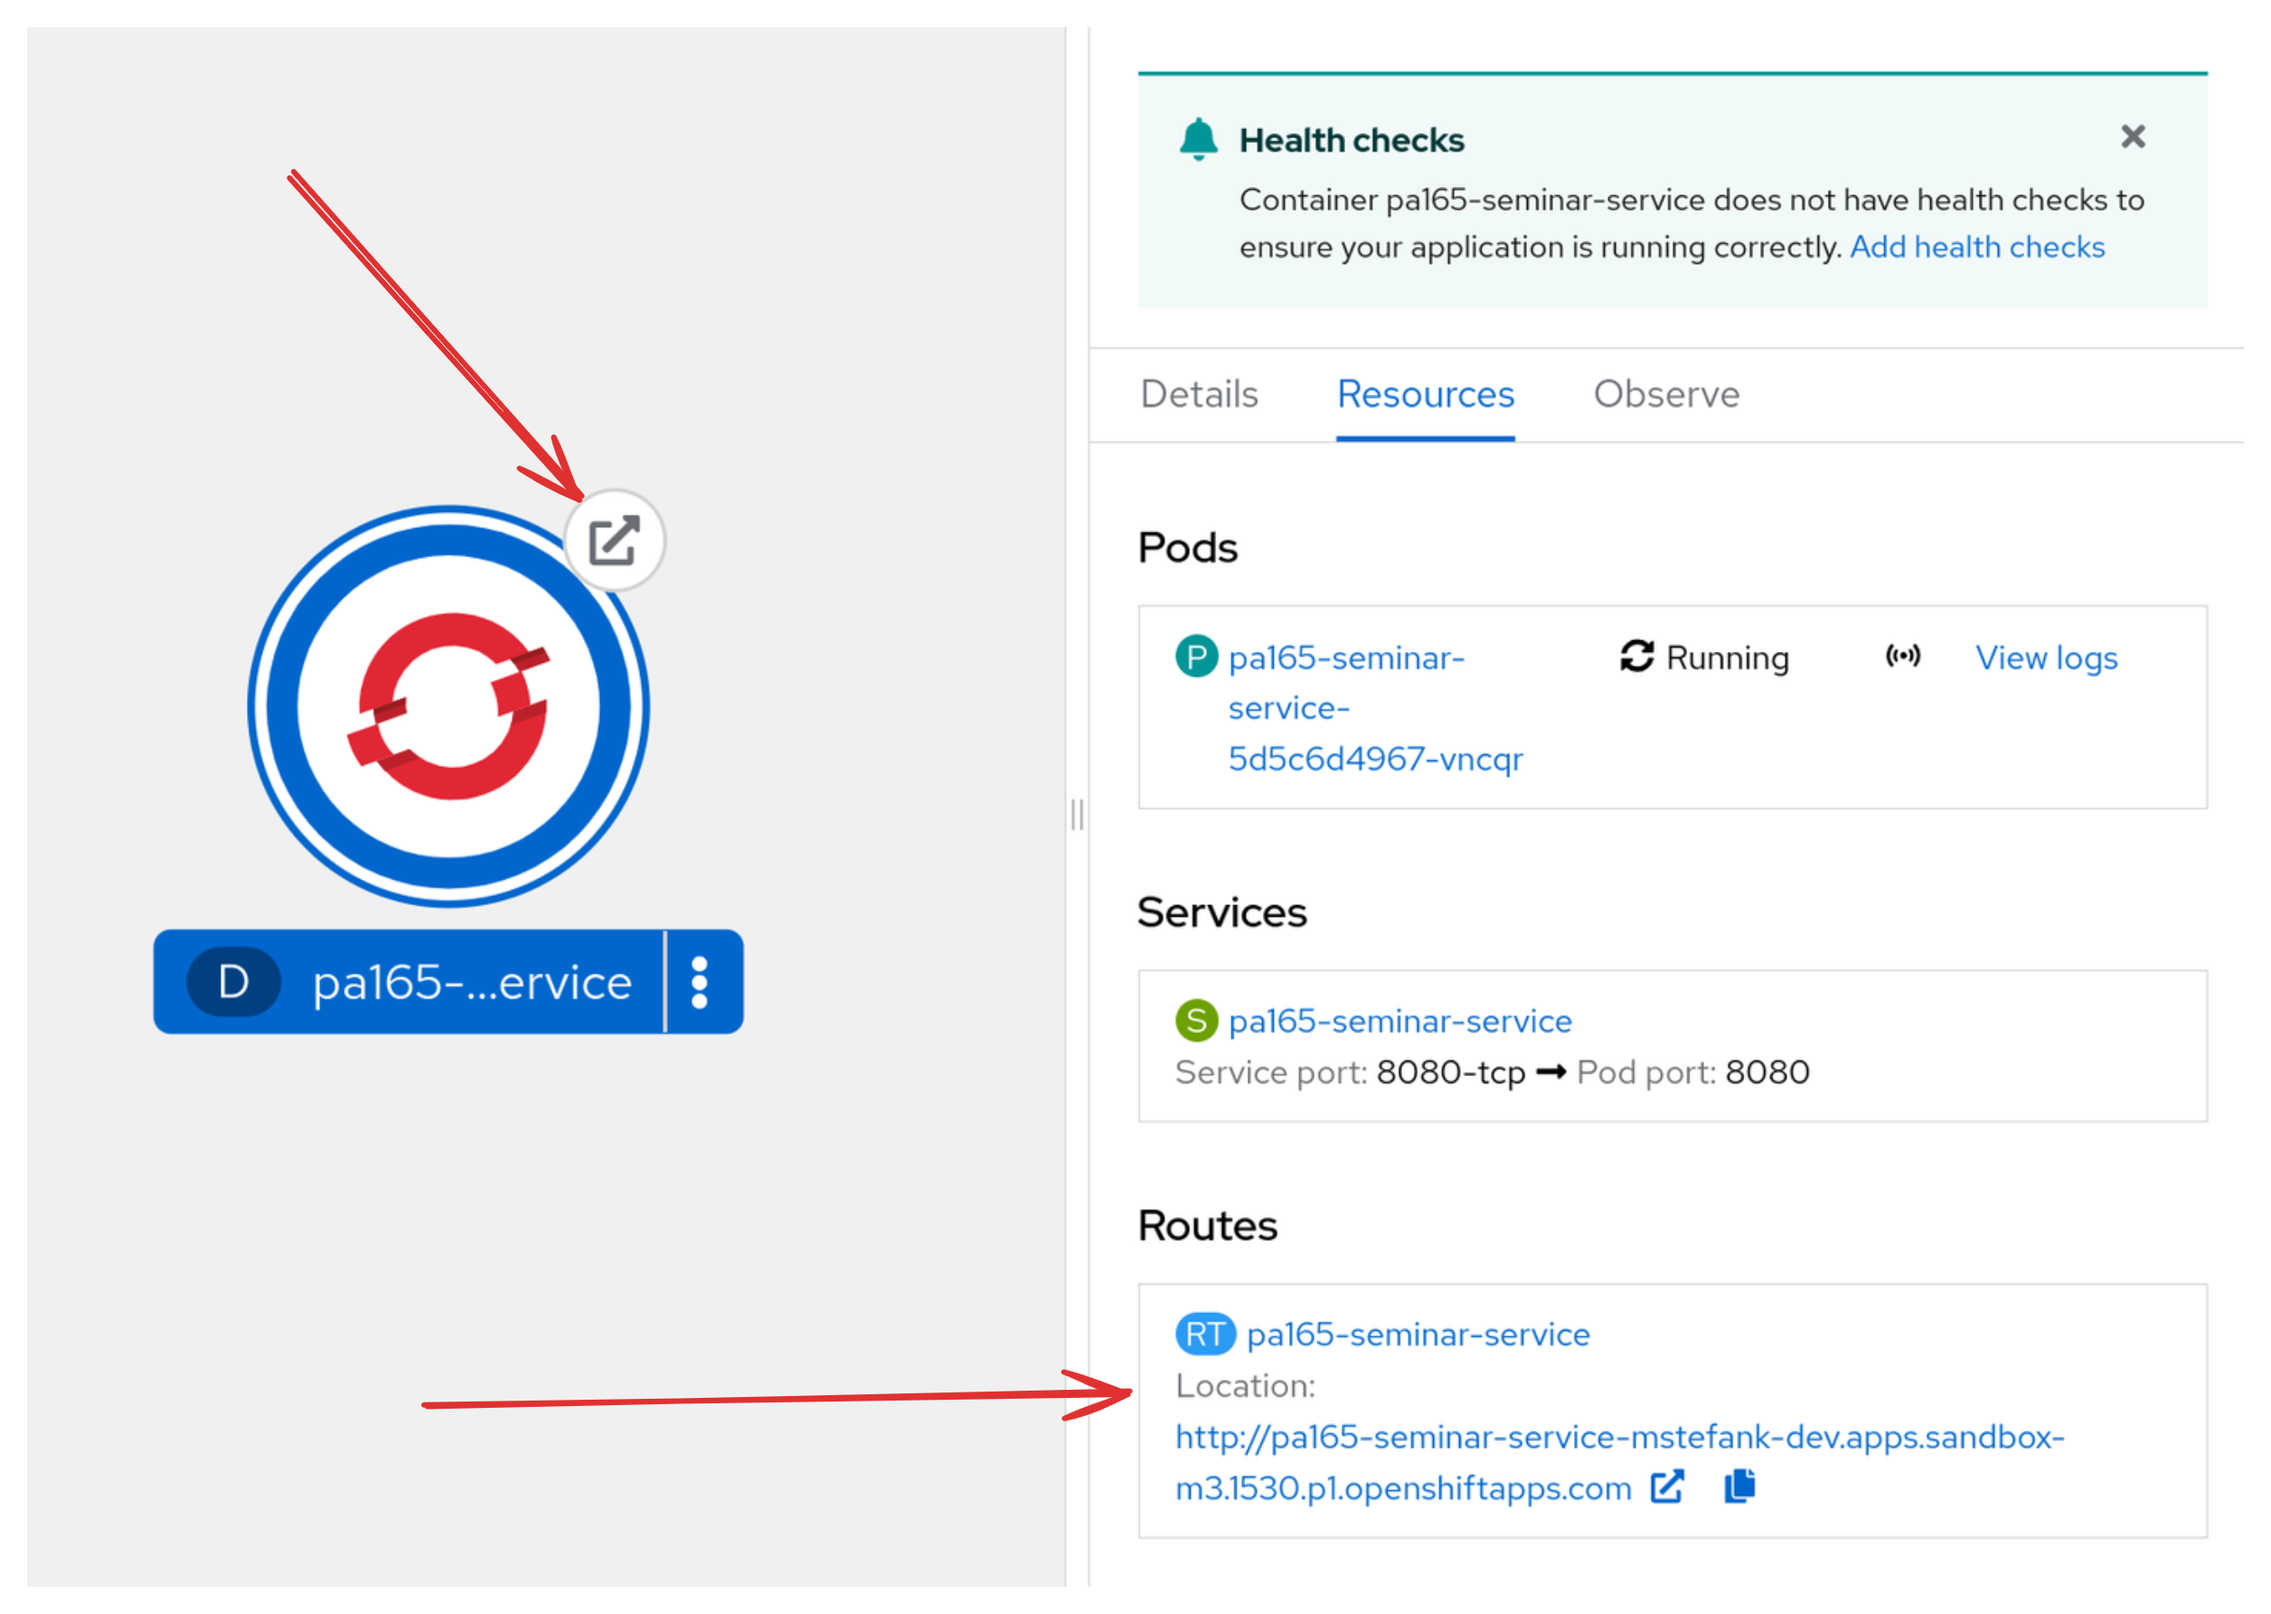
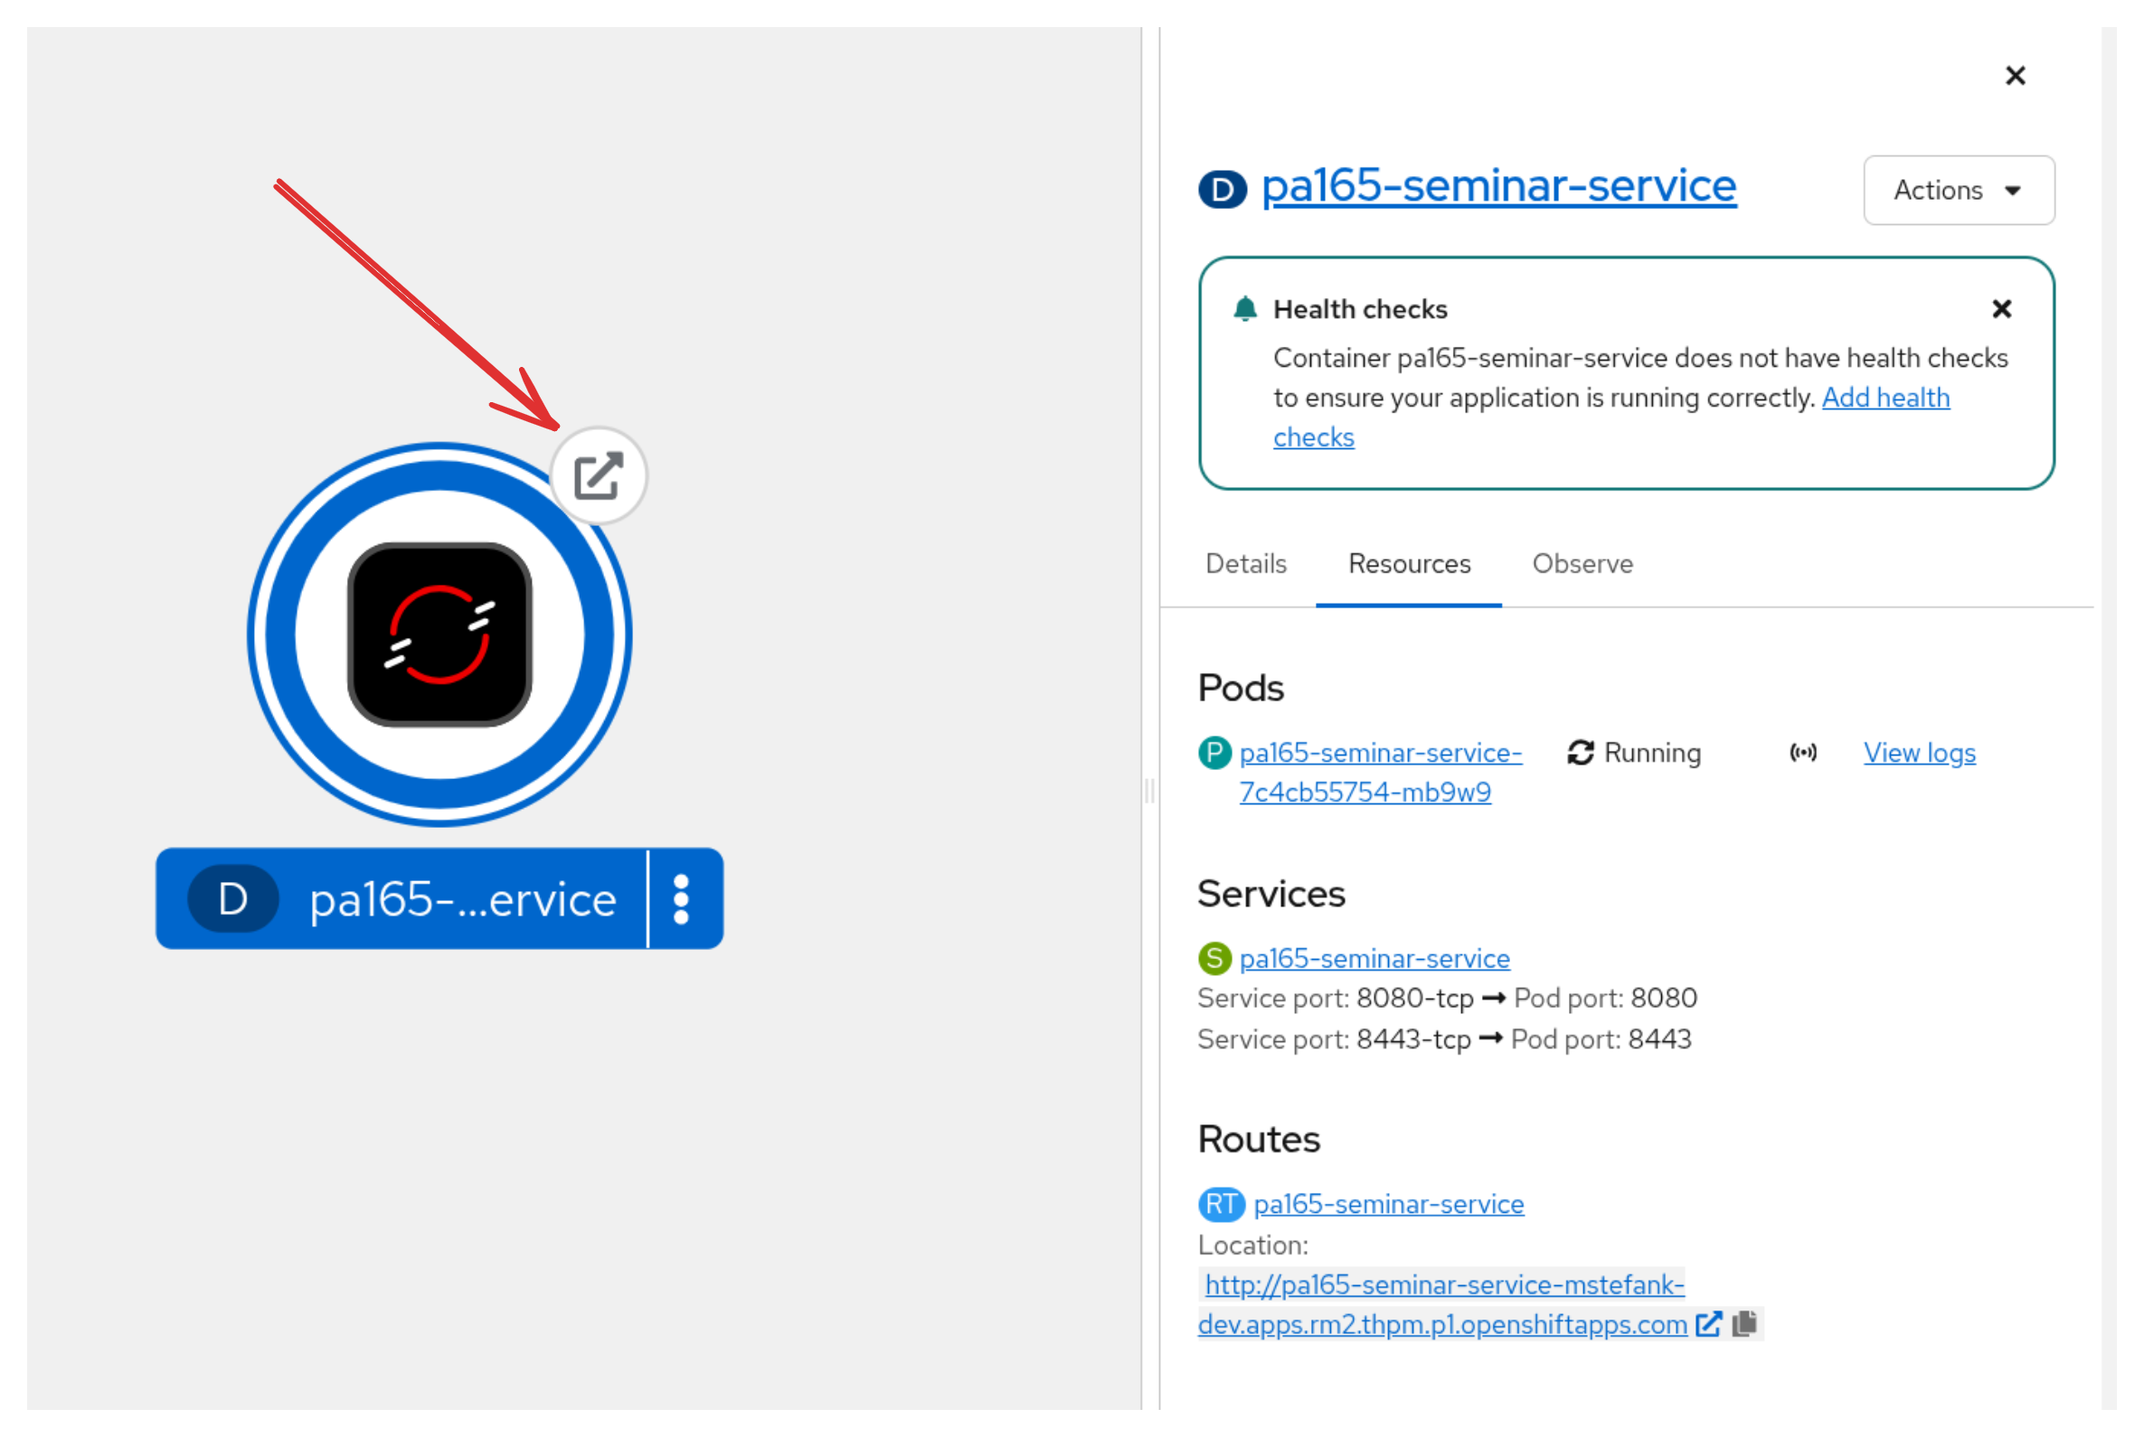
Seminar 05 task 07

diff --git a/seminar-05/README.md b/seminar-05/README.md
@@ -402,16 +402,20 @@ This is required for OpenShift later.
 
 OpenShift (https://docs.openshift.com/) is a Red Hat maintained fork of Kubernetes (https://kubernetes.io/). For the basics that we need in this seminar, you can imagine it as an automation of containers management. You will say you want 5 instances of `pa165-seminar-service` running at all times and OpenShift will make sure to start 5 instances, and if any of it fails or stops, it will start a new one to always have 5 instances running.
 
-For this seminar, we will use a free OpenShift cluster that you can get access to be having a Red Hat account (same as you would create for quay.io) called Developer Sandbox for Red Hat OpenShift (https://developers.redhat.com/developer-sandbox). It's a shared OpenShift instance in which you will have your own namespace (project) which is accessible only to you. This is limited to 14 GB RAM and 40 GB storage, and it will be available for 30 days. Additionally, all your pods (basically a container instance in OpenShift/Kubernetes) are scaled down to 0 after 12 hours. However, for the purposes of this seminar, but also the whole course and your projects it is more than sufficient. 
+For this seminar, we will use a free OpenShift cluster that you can get access to be having a Red Hat account (same as you would create for quay.io) called Developer Sandbox for Red Hat OpenShift (https://developers.redhat.com/developer-sandbox). 
+It's a shared OpenShift instance in which you will have your own namespace (project) which is accessible only to you. This is limited to 7 GB RAM and 15 GB storage, and it will be available for 30 days. Additionally, all your pods (basically a 
+container instance in OpenShift/Kubernetes) are scaled down to 0 after 12 hours. However, for the purposes of this seminar, but also the whole course and your projects it is more than sufficient. 
 
 1. Create your OpenShift Sandbox at https://developers.redhat.com/developer-sandbox.
    - At https://developers.redhat.com/developer-sandbox click the `Start your sandbox for free` button.
    - If you already have a Red Hat account, you can use it. Otherwise, create a new account.
    - You might be asked to provide your number to verify your account with SMS. Author wasn't charged for this SMS.
-   - If you are logged in, click `Start using your sandbox`.
-   - In the Red Hat Hybrid Cloud Console click `Launch` button in the "Red Hat OpenShift box".
-   - At Log in with... page click `DevSandbox` user which is the only option.
-   - And you should be redirected to your openshift dashboard at the topology view at URL that looks similar to this `https://console-openshift-console.apps.sandbox-m3.1530.p1.openshiftapps.com/topology/ns/<your-username>-dev?view=graph` and looks like this:
+   - If you are logged in, click `Openshift -> Try it`.
+   - And you should be redirected to your openshift dashboard at the topology view at URL that looks similar to this `https://console-openshift-console.apps.rm2.thpm.p1.openshiftapps.com/k8s/cluster/projects/<your-username>` and looks like this:
+
+![](images/landing.png)
+
+Now click on `Workloads -> Topology` this is the best overview page:
 
 ![](images/sandboxtopology.png)
 
@@ -468,17 +472,23 @@ And copy the login command under `Log in with this token` which looks like this:
 And paste this into your terminal to log your client into your OpenShift.
 
 ```shell
-$ oc login --token=sha256~hidden-token --server=https://api.sandbox-m3.1530.p1.openshiftapps.com:6443
-Logged into "https://api.sandbox-m3.1530.p1.openshiftapps.com:6443" as "mstefank" using the token provided.
+$ oc login --token=<token> --server=<server>
 
-You have one project on this server: "mstefank-dev"
+Logged into "<server>" as "mstefank" using the token provided.
+
+You have access to the following projects and can switch between them with 'oc project <projectname>':
+
+  * mstefank-dev
+    openshift-virtualization-os-images
+    sandbox-shared-models
 
 Using project "mstefank-dev".
 ```
 
 Note that my Red Hat id is `mstefank` but in Quay.io I have `xstefank`.  
 
-If you get something like `oc: command not found...` then you don't have correctly set `PATH` to the location where your `oc` tool is (e.g, `export PATH=$PATH /home/mstefank/Downloads` assumind the oc is in `/home/mstefank/Downloads/oc`) or just write the command with full path as `/home/mstefank/Downloads/oc login --token...`.
+If you get something like `oc: command not found...` then you don't have correctly set `PATH` to the location where your `oc` tool is (e.g, `export PATH=$PATH:/home/mstefank/Downloads` assuming the oc is in `/home/mstefank/Downloads/oc`) or just 
+write the command with full path as `/home/mstefank/Downloads/oc login --token...`.
 
 4. In the terminal where you logged into OpenShift, deploy the public version of your image to your OpenShift with:
 
@@ -490,7 +500,13 @@ This prints something like this:
 
 ```shell
 $ oc new-app quay.io/xstefank/pa165-seminar-service
---> Found container image e14a0dc (22 minutes old) from quay.io for "quay.io/xstefank/pa165-seminar-service"
+--> Found container image 5df83b0 (45 hours old) from quay.io for "quay.io/xstefank/pa165-seminar-service"
+
+    Java Applications 
+    ----------------- 
+    Platform for running plain Java applications (fat-jar and flat classpath)
+
+    Tags: java
 
     * An image stream tag will be created as "pa165-seminar-service:latest" that will track this image
 
@@ -515,7 +531,7 @@ Or in the terminal:
 ```shell
 $ oc get deployments
 NAME                    READY   UP-TO-DATE   AVAILABLE   AGE
-pa165-seminar-service   1/1     1            1           7m51s
+pa165-seminar-service   1/1     1            1           8m21s
 ```
 
 - A pod `pa165-seminar-service-<sth>` that is the actual container that was run from our image. You can also see it in the `Topology` view if you click the deployment mentioned above:
@@ -527,19 +543,20 @@ Also viewable in the terminal with `oc get pods`:
 ```shell
 $ oc get pods
 NAME                                     READY   STATUS    RESTARTS   AGE
-pa165-seminar-service-5d5c6d4967-vncqr   1/1     Running   0          12m
+pa165-seminar-service-7c4cb55754-mb9w9   1/1     Running   0          43m
 ```
 
-If you click the `View logs` button this will take to the logs from the running container of your application. In terminal, you can get that with `oc logs -f pa165-seminar-service-5d5c6d4967-vncqr`.
+If you click the `View logs` button this will take to the logs from the running container of your application. In terminal, you can get that with `oc logs -f pa165-seminar-service-7c4cb55754-mb9w9`.
 
 - A Service object called `pa165-seminar-service` which you can also see in the detail of the deployment above. This exposes the `pa165-seminar-service` deployment inside this cluster on port `8080` that is automatically parsed from our image (`EXPOSE 8080`). So if we would have different application deployed in this OpenShift cluster they would be already available to call this service from inside OpenShift.
 
 Also in terminal you can get it with `oc get svc`:
 
 ```shell
-$ oc get svc
-NAME                    TYPE        CLUSTER-IP      EXTERNAL-IP   PORT(S)    AGE
-pa165-seminar-service   ClusterIP   172.30.229.10   <none>        8080/TCP   14m
+$ oc get svc 
+NAME                    TYPE        CLUSTER-IP       EXTERNAL-IP   PORT(S)                               AGE
+modelmesh-serving       ClusterIP   None             <none>        8033/TCP,8008/TCP,8443/TCP,2112/TCP   92m
+pa165-seminar-service   ClusterIP   172.30.144.150   <none>        8080/TCP,8443/TCP                     48m
 ```
 
 5. Expose the Route object for the deployed application. In order for us to be able to call our application from outside OpenShift, we need to expose a route for it. This is very easily done with `oc expose service/pa165-seminar-service`. This is also already hinted when you deploy the application and the Service object is created:
@@ -563,8 +580,8 @@ And `oc get routes` to view your public URL:
 
 ```shell
 $ oc get routes
-NAME                    HOST/PORT                                                                      PATH   SERVICES                PORT       TERMINATION   WILDCARD
-pa165-seminar-service   pa165-seminar-service-mstefank-dev.apps.sandbox-m3.1530.p1.openshiftapps.com          pa165-seminar-service   8080-tcp                 None
+NAME                    HOST/PORT                                                               PATH   SERVICES                PORT       TERMINATION   WILDCARD
+pa165-seminar-service   pa165-seminar-service-mstefank-dev.apps.rm2.thpm.p1.openshiftapps.com          pa165-seminar-service   8080-tcp                 None
 ```
 
 Also notice a new small icon in the top right corner of the deployment icon in the `Topology` view together with the `Routes` section in the detail:
@@ -580,7 +597,7 @@ Of course, we don't have anything running on the root path `/` only on `/wheream
 In the terminal you can get the same response by using the route instead of `localhost`:
 
 ```shell
-$ curl http://pa165-seminar-service-mstefank-dev.apps.sandbox-m3.1530.p1.openshiftapps.com/whereami
+$ curl http://pa165-seminar-service-mstefank-dev.apps.rm2.thpm.p1.openshiftapps.com/whereami
 ```
 
 And as you can see we indeed run the application that you built on your computer now somewhere in US. 
@@ -590,44 +607,45 @@ And as you can see we indeed run the application that you built on your computer
 ![](images/scalinginos.png)
 
 ```shell
-$ oc get pods
+$ oc get pods  
 NAME                                     READY   STATUS    RESTARTS   AGE
-pa165-seminar-service-5d5c6d4967-6rbvj   1/1     Running   0          100s
-pa165-seminar-service-5d5c6d4967-dlpdb   1/1     Running   0          100s
-pa165-seminar-service-5d5c6d4967-vncqr   1/1     Running   0          30m
+pa165-seminar-service-7c4cb55754-lgp55   1/1     Running   0          2m43s
+pa165-seminar-service-7c4cb55754-mb9w9   1/1     Running   0          74m
+pa165-seminar-service-7c4cb55754-rczrf   1/1     Running   0          2m43s
 ```
 
 7. Try to call your public URL now a few times again but this time on the `/whoami` endpoint. You will see that you automatically get a load balancer set up with the service that will redirect your calls to different pods:
 
 ```shell
-$ curl http://pa165-seminar-service-mstefank-dev.apps.sandbox-m3.1530.p1.openshiftapps.com/whoami
-Id: Web Server Node 689466e4-3966-4cbe-a6c9-e26dfefecc43% 
-$ curl http://pa165-seminar-service-mstefank-dev.apps.sandbox-m3.1530.p1.openshiftapps.com/whoami
-Id: Web Server Node 689466e4-3966-4cbe-a6c9-e26dfefecc43% 
-$ curl http://pa165-seminar-service-mstefank-dev.apps.sandbox-m3.1530.p1.openshiftapps.com/whoami
-Id: Web Server Node 4d367009-aa36-44ae-99f9-aa87e752e4c8%                           
-$ curl http://pa165-seminar-service-mstefank-dev.apps.sandbox-m3.1530.p1.openshiftapps.com/whoami
-Id: Web Server Node a9a9911f-77d6-4e78-9e09-b864e2d7636c%
+$ curl http://pa165-seminar-service-mstefank-dev.apps.rm2.thpm.p1.openshiftapps.com/whoami
+Id: Web Server Node 101c1797-832e-4de2-ac97-54191b8d266c%
+$ curl http://pa165-seminar-service-mstefank-dev.apps.rm2.thpm.p1.openshiftapps.com/whoami
+Id: Web Server Node 91a5c64f-5eab-4451-834f-ee5a5ee646f9%
+$ curl http://pa165-seminar-service-mstefank-dev.apps.rm2.thpm.p1.openshiftapps.com/whoami
+Id: Web Server Node b2c16d05-7c98-444f-8e61-8dec6cdf7555%  
 ```
 
 It might happen that two consecutive calls will go to the same pod, so try a few more times in that case.
 
 8. Verify your task with the script `verify-task07.sh <your-public-URL>`. You must run it with the public URL of your route where your application is accessible like this:
 
-`$ ./verify-task07.sh http://pa165-seminar-service-mstefank-dev.apps.sandbox-m3.1530.p1.openshiftapps.com`
+`$ ./verify-task07.sh http://pa165-seminar-service-mstefank-dev.apps.rm2.thpm.p1.openshiftapps.com`
 
 9. Optional: If you need to delete all the resources that you deployed to your OpenShift (total clean up) you can run `oc delete all --all`:
 
 ```shell
 $ oc delete all --all
-pod "pa165-seminar-service-5d5c6d4967-6rbvj" deleted
-pod "pa165-seminar-service-5d5c6d4967-dlpdb" deleted
-pod "pa165-seminar-service-5d5c6d4967-vncqr" deleted
+pod "pa165-seminar-service-7c4cb55754-lgp55" deleted
+pod "pa165-seminar-service-7c4cb55754-mb9w9" deleted
+pod "pa165-seminar-service-7c4cb55754-rczrf" deleted
+service "modelmesh-serving" deleted
 service "pa165-seminar-service" deleted
 deployment.apps "pa165-seminar-service" deleted
 Warning: apps.openshift.io/v1 DeploymentConfig is deprecated in v4.14+, unavailable in v4.10000+
 imagestream.image.openshift.io "pa165-seminar-service" deleted
 route.route.openshift.io "pa165-seminar-service" deleted
+Warning: kubevirt.io/v1 VirtualMachineInstancePresets is now deprecated and will be removed in v2.
+Error from server (Forbidden): applications.app.k8s.io is forbidden: User "mstefank" cannot list resource "applications" in API group "app.k8s.io" in the namespace "mstefank-dev"
 ```
 
 ## Optional: Task 08 - Avenger services
